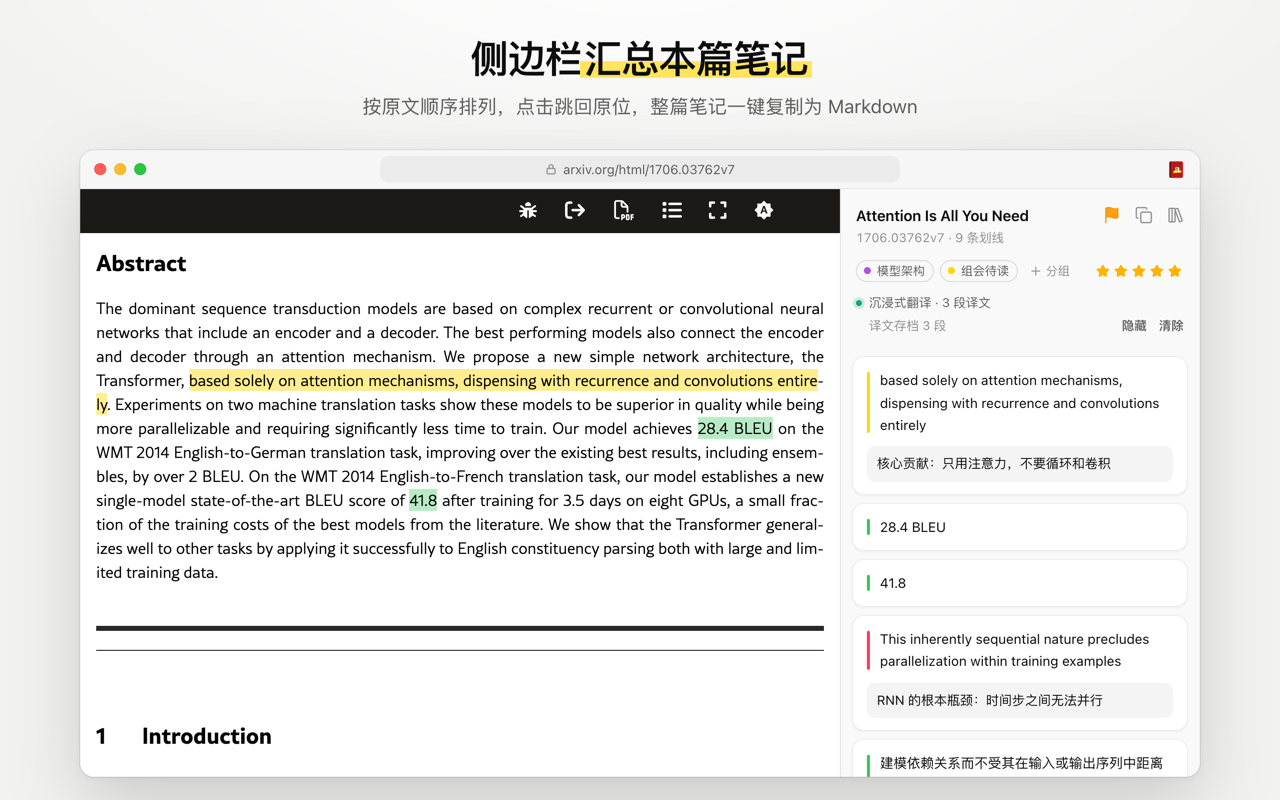
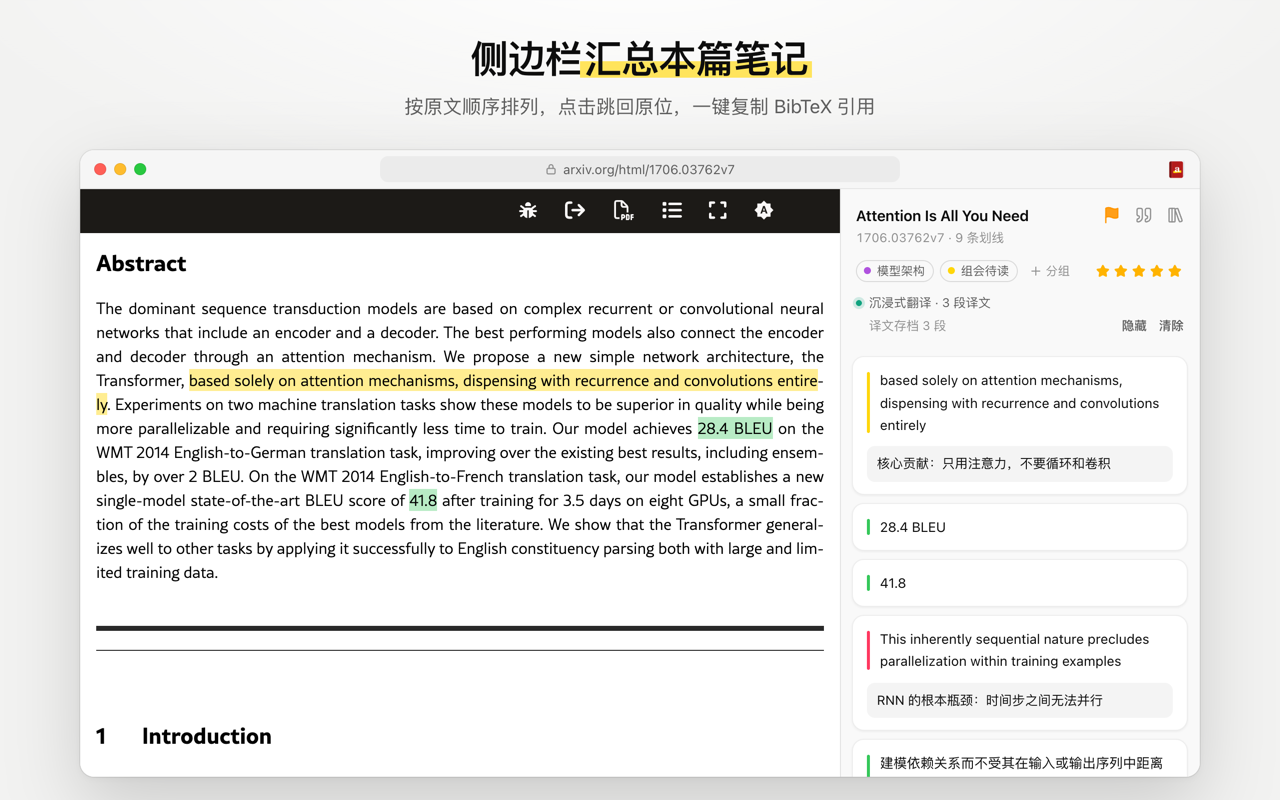
Docs, site and screenshots for the detail pane and citations
- README, usage guide, homepage and store listing describe the detail
  pane, paper notes and "copy BibTeX" in place of "copy as Markdown"
- Privacy policy (site and store listing): the arXiv API is also queried
  when copying a citation, and now returns abstracts, categories and
  DOIs; paper notes are stored locally and synced like other notes
- Sync guide: merge rules for paper notes and arXiv metadata
- Screenshot script opens the detail pane on a paper with a DOI and a
  journal_ref; the library shots use a wider window so the pane fits.
  Store screenshots and homepage images are regenerated

Changed region(s): [[0.2812, 0.125, 0.7188, 0.1562], [0.875, 0.25, 0.9062, 0.2812]]

diff --git a/scripts/screenshots/fixtures.ts b/scripts/screenshots/fixtures.ts
@@ -1,16 +1,18 @@
 import { GROUPS_KEY, SHELF_PREFIX, type Group, type GroupColor, type Shelf } from '../../src/core/groups';
-import { META_PREFIX, PAPER_PREFIX } from '../../src/core/library';
+import { META_PREFIX, NOTE_PREFIX, PAPER_PREFIX, type PaperNote } from '../../src/core/library';
 import type { PaperMeta } from '../../src/core/paper';
 import { COLORS, type Annotation } from '../../src/core/types';
 import { SYNC_CONFIG_KEY, SYNC_STATUS_KEY, type SyncConfig, type SyncStatus } from '../../src/sync/config';
 
 /**
- * 截图用的示例数据：分组、论文库里的其他论文、云同步设置。
+ * 截图用的示例数据：分组、论文库里的其他论文、详情面板里那篇论文的 arXiv 信息和论文笔记、云同步设置。
  * 截图里那篇论文的划线和笔记是在论文页上现场做的，见 capture.ts。
  * 时间都相对于截图时刻，论文库里显示的"3小时前"等每次都一样
  */
 
 export const PAPER_ID = '1706.03762';
+/** 论文库截图里打开详情面板的论文：arXiv 上 DOI、发表信息都有 */
+export const DETAIL_PAPER_ID = '2501.12948';
 
 const MINUTE = 60_000;
 const HOUR = 60 * MINUTE;
@@ -44,7 +46,7 @@ interface PaperDef {
 /** 论文库里的论文。第一篇是截图里打开的论文，它的划线来自论文页 */
 const PAPERS: PaperDef[] = [
   { id: PAPER_ID, version: 'v7', title: 'Attention Is All You Need', authors: ['Ashish Vaswani', 'Noam Shazeer', 'Niki Parmar'], authorCount: 8, year: 2017, groups: ['g1', 'g5'], flagged: true, rating: 5, highlights: 0, notes: 0, ago: MINUTE },
-  { id: '2501.12948', version: 'v2', title: 'DeepSeek-R1: Incentivizing Reasoning Capability in LLMs via Reinforcement Learning', authors: ['DeepSeek-AI', 'Daya Guo', 'Dejian Yang'], authorCount: 200, year: 2025, groups: ['g2', 'g3'], flagged: true, rating: 4, highlights: 14, notes: 5, ago: 3 * HOUR },
+  { id: DETAIL_PAPER_ID, version: 'v2', title: 'DeepSeek-R1: Incentivizing Reasoning Capability in LLMs via Reinforcement Learning', authors: ['DeepSeek-AI', 'Daya Guo', 'Dejian Yang', 'Haowei Zhang', 'Junxiao Song', 'Peiyi Wang', 'Qihao Zhu', 'Runxin Xu', 'Ruoyu Zhang', 'Shirong Ma', 'Xiao Bi'], authorCount: 200, year: 2025, groups: ['g2', 'g3'], flagged: true, rating: 4, highlights: 14, notes: 5, ago: 3 * HOUR },
   { id: '2402.03300', version: 'v3', title: 'DeepSeekMath: Pushing the Limits of Mathematical Reasoning in Open Language Models', authors: ['Zhihong Shao', 'Peiyi Wang', 'Qihao Zhu'], authorCount: 11, year: 2024, groups: ['g2'], rating: 4, highlights: 9, notes: 3, ago: 1.1 * DAY },
   { id: '2405.04434', version: 'v5', title: 'DeepSeek-V2: A Strong, Economical, and Efficient Mixture-of-Experts Language Model', authors: ['DeepSeek-AI', 'Aixin Liu', 'Bei Feng'], authorCount: 157, year: 2024, groups: ['g1', 'g4'], highlights: 11, notes: 2, ago: 2.2 * DAY },
   { id: '2401.04088', version: 'v1', title: 'Mixtral of Experts', authors: ['Albert Q. Jiang', 'Alexandre Sablayrolles', 'Antoine Roux'], authorCount: 26, year: 2024, groups: ['g4'], highlights: 6, notes: 1, ago: 3.1 * DAY },
@@ -54,6 +56,20 @@ const PAPERS: PaperDef[] = [
   { id: '2201.11903', version: 'v6', title: 'Chain-of-Thought Prompting Elicits Reasoning in Large Language Models', authors: ['Jason Wei', 'Xuezhi Wang', 'Dale Schuurmans'], authorCount: 9, year: 2022, groups: ['g2'], rating: 4, highlights: 4, notes: 1, ago: 21 * DAY },
   { id: '2106.09685', version: 'v2', title: 'LoRA: Low-Rank Adaptation of Large Language Models', authors: ['Edward J. Hu', 'Yelong Shen', 'Phillip Wallis'], authorCount: 8, year: 2021, groups: [], highlights: 0, notes: 0, ago: 5 * DAY },
 ];
+
+/** 详情面板里的 arXiv 信息，取自 arXiv API（2026-10-26） */
+const DETAIL_META: Partial<PaperMeta> = {
+  published: '2025-01-22T15:19:35Z',
+  updated: '2026-01-04T08:20:18Z',
+  latestVersion: 'v2',
+  category: 'cs.CL',
+  doi: '10.1038/s41586-025-09422-z',
+  journalRef: 'Nature volume 645, pages 633-638 (2025)',
+  abstract:
+    "General reasoning represents a long-standing and formidable challenge in artificial intelligence. Recent breakthroughs, exemplified by large language models (LLMs) and chain-of-thought prompting, have achieved considerable success on foundational reasoning tasks. However, this success is heavily contingent upon extensive human-annotated demonstrations, and models' capabilities are still insufficient for more complex problems. Here we show that the reasoning abilities of LLMs can be incentivized through pure reinforcement learning (RL), obviating the need for human-labeled reasoning trajectories. The proposed RL framework facilitates the emergent development of advanced reasoning patterns, such as self-reflection, verification, and dynamic strategy adaptation. Consequently, the trained model achieves superior performance on verifiable tasks such as mathematics, coding competitions, and STEM fields, surpassing its counterparts trained via conventional supervised learning on human demonstrations. Moreover, the emergent reasoning patterns exhibited by these large-scale models can be systematically harnessed to guide and enhance the reasoning capabilities of smaller models.",
+};
+
+const DETAIL_NOTE = 'R1-Zero 不做 SFT，直接用 GRPO + 规则奖励训练，反思、验证等推理行为自己涌现出来。\nR1 先用少量长 CoT 数据冷启动，解决可读性差、中英混杂的问题。\n待看：蒸馏到 Qwen / Llama 小模型的实验设置。';
 
 /** 导入的 PDF（没有 arXiv HTML 版本的论文） */
 const IMPORTED_ID = 'pdf-0123456789abcdef0123';
@@ -96,7 +112,12 @@ export function libraryStorage(now: number): Record<string, unknown> {
   const out: Record<string, unknown> = { [GROUPS_KEY]: groups(now) };
   for (const p of PAPERS) {
     const at = now - p.ago;
-    const meta: PaperMeta = { id: p.id, version: p.version, title: p.title, authors: authorList(p), lastOpenedAt: at, published: `${p.year}-06-12T00:00:00Z`, source: 'api' };
+    // 带上获取时间和最新版本，论文库页不会再去请求 arXiv API
+    const meta: PaperMeta = {
+      id: p.id, version: p.version, title: p.title, authors: authorList(p), lastOpenedAt: at,
+      published: `${p.year}-06-12T00:00:00Z`, source: 'api', apiAt: now - DAY, latestVersion: p.version,
+      ...(p.id === DETAIL_PAPER_ID ? DETAIL_META : {}),
+    };
     out[META_PREFIX + p.id] = meta;
     out[SHELF_PREFIX + p.id] = shelf(p, now);
     if (p.highlights) out[PAPER_PREFIX + p.id] = Array.from({ length: p.highlights }, (_, i) => annotation(p.id, p.version, i, at, i < p.notes));
@@ -113,6 +134,7 @@ export function libraryStorage(now: number): Record<string, unknown> {
     doc: { sha256: '0'.repeat(64), size: 1, importedAt, fileName: 'kaplan2020_scaling_laws.pdf' },
   };
   out[META_PREFIX + IMPORTED_ID] = imported;
+  out[NOTE_PREFIX + DETAIL_PAPER_ID] = { text: DETAIL_NOTE, updatedAt: now - 2 * HOUR } satisfies PaperNote;
   out[SHELF_PREFIX + IMPORTED_ID] = { groups: [], flagged: false, rating: 0, addedAt: importedAt, updatedAt: 0 } satisfies Shelf;
   out[PAPER_PREFIX + IMPORTED_ID] = [0, 1, 2].map((i) => annotation(IMPORTED_ID, '', i, importedAt, false));
 

diff --git a/site/index.html b/site/index.html
@@ -90,15 +90,15 @@
           </div>
           <div class="card">
             <span class="icon"><svg viewBox="0 0 24 24" fill="none" stroke="currentColor" stroke-width="1.75" stroke-linecap="round" stroke-linejoin="round" aria-hidden="true"><rect width="18" height="18" x="3" y="3" rx="2"/><path d="M15 3v18"/></svg></span>
-            <h3><span lang="zh">侧边栏与导出</span><span lang="en">Side panel &amp; export</span></h3>
-            <p lang="zh">侧边栏按文档顺序列出所有笔记，点击跳转到原文位置；整篇笔记可以复制为 Markdown。</p>
-            <p lang="en">The side panel lists every note in document order; click one to jump to it. Copy all notes of a paper as Markdown.</p>
+            <h3><span lang="zh">侧边栏与引用</span><span lang="en">Side panel &amp; citations</span></h3>
+            <p lang="zh">侧边栏按文档顺序列出所有笔记，点击跳转到原文位置；一键复制这篇论文的 BibTeX 引用。</p>
+            <p lang="en">The side panel lists every note in document order; click one to jump to it. Copy the paper's BibTeX citation in one click.</p>
           </div>
           <div class="card">
             <span class="icon"><svg viewBox="0 0 24 24" fill="none" stroke="currentColor" stroke-width="1.75" stroke-linecap="round" stroke-linejoin="round" aria-hidden="true"><rect width="8" height="18" x="3" y="3" rx="1"/><path d="M7 3v18"/><path d="M20.4 18.9c.2.5-.1 1.1-.6 1.3l-1.9.7c-.5.2-1.1-.1-1.3-.6L11.1 5.1c-.2-.5.1-1.1.6-1.3l1.9-.7c.5-.2 1.1.1 1.3.6z"/></svg></span>
             <h3><span lang="zh">论文库与分组</span><span lang="en">Library &amp; groups</span></h3>
-            <p lang="zh">浏览过的论文自动收进论文库，标题和作者从 arXiv 获取。支持分组、标记、评分、排序，以及按标题、作者、笔记内容搜索。</p>
-            <p lang="en">Papers you open go into your library, with titles and authors from arXiv. Group, flag, rate and sort them, and search titles, authors and notes.</p>
+            <p lang="zh">浏览过的论文自动收进论文库，标题和作者从 arXiv 获取。支持分组、标记、评分、排序，以及按标题、作者、笔记内容搜索；点开论文可以看摘要、写整篇论文的笔记。</p>
+            <p lang="en">Papers you open go into your library, with titles and authors from arXiv. Group, flag, rate and sort them, and search titles, authors and notes; open one to read its abstract and write a note on the whole paper.</p>
           </div>
           <div class="card">
             <span class="icon"><svg viewBox="0 0 24 24" fill="none" stroke="currentColor" stroke-width="1.75" stroke-linecap="round" stroke-linejoin="round" aria-hidden="true"><path d="M17.5 19H9a7 7 0 1 1 6.71-9h1.79a4.5 4.5 0 1 1 0 9z"/></svg></span>
@@ -143,11 +143,12 @@
             <h2><span lang="zh">读过的论文，<span class="hl">都在这里</span></span><span lang="en">Every paper you've read, <span class="hl">in one place</span></span></h2>
           </div>
           <div>
-            <p lang="zh">打开过的论文自动收进论文库，标题、作者、年份从 arXiv 获取，不用手动整理。</p>
-            <p lang="en">Papers you open are added automatically, with titles, authors and years fetched from arXiv. No manual filing.</p>
+            <p lang="zh">打开过的论文自动收进论文库，标题、作者、摘要从 arXiv 获取，不用手动整理。点开一篇论文，右侧显示它的详情。</p>
+            <p lang="en">Papers you open are added automatically, with titles, authors and abstracts fetched from arXiv. No manual filing. Click a paper to see its details on the right.</p>
             <ul class="checks">
-              <li><span lang="zh">分组、标记、五星评分，按笔记、评分、划线数排序</span><span lang="en">Groups, flags and star ratings; sort by notes, rating or highlights</span></li>
-              <li><span lang="zh">按标题、作者、划线和笔记内容搜索</span><span lang="en">Search titles, authors, highlights and notes</span></li>
+              <li><span lang="zh">摘要、主分类、DOI、发表信息一目了然</span><span lang="en">Abstract, category, DOI and venue at a glance</span></li>
+              <li><span lang="zh">给整篇论文写笔记，一键复制 BibTeX 引用</span><span lang="en">Notes on the whole paper; copy its BibTeX in one click</span></li>
+              <li><span lang="zh">分组、标记、五星评分，按标题、作者、划线和笔记搜索</span><span lang="en">Groups, flags and stars; search titles, authors, highlights and notes</span></li>
               <li><span lang="zh">WebDAV、Google Drive 同步，或导出备份</span><span lang="en">Sync via WebDAV or Google Drive, or export a backup</span></li>
             </ul>
           </div>
@@ -159,7 +160,7 @@
           </div>
           <picture>
             <source srcset="img/library-dark.webp" media="(prefers-color-scheme: dark)">
-            <img src="img/library-light.webp" width="1120" height="700" loading="lazy" alt="论文库：左侧是分组，右侧是论文列表，带分组标签、标记和评分 / The library: groups on the left, papers with group labels, flags and ratings on the right">
+            <img src="img/library-light.webp" width="1240" height="880" loading="lazy" alt="论文库：左侧是分组，中间是带分组标签、标记和评分的论文列表，右侧是选中论文的详情，有摘要、DOI、发表信息和论文笔记 / The library: groups on the left, papers with labels, flags and ratings in the middle, and the selected paper's details on the right, with its abstract, DOI, venue and a note on the whole paper">
           </picture>
         </figure>
       </div>
@@ -187,8 +188,8 @@
           <div class="card">
             <span class="icon"><svg viewBox="0 0 24 24" fill="none" stroke="currentColor" stroke-width="1.75" stroke-linecap="round" stroke-linejoin="round" aria-hidden="true"><path d="M2.062 12.348a1 1 0 0 1 0-.696 10.75 10.75 0 0 1 19.876 0 1 1 0 0 1 0 .696 10.75 10.75 0 0 1-19.876 0"/><circle cx="12" cy="12" r="3"/></svg></span>
             <h3><span lang="zh">用到第三方时会说明</span><span lang="en">Third parties, disclosed</span></h3>
-            <p lang="zh">论文库向 arXiv API 查询标题和作者；导入 PDF 时文件会上传到 MinerU 解析。</p>
-            <p lang="en">The library asks the arXiv API for titles and authors; imported PDFs are uploaded to MinerU for parsing.</p>
+            <p lang="zh">论文库向 arXiv API 查询标题、作者、摘要等论文信息；导入 PDF 时文件会上传到 MinerU 解析。</p>
+            <p lang="en">The library asks the arXiv API for titles, authors and abstracts; imported PDFs are uploaded to MinerU for parsing.</p>
           </div>
         </div>
         <p class="more"><a href="privacy.html"><span lang="zh">阅读完整的隐私政策</span><span lang="en">Read the full privacy policy</span> →</a></p>

diff --git a/site/privacy.html b/site/privacy.html
@@ -32,7 +32,7 @@
     <p>以下数据保存在你的浏览器本地（<code>chrome.storage.local</code> 和扩展的 IndexedDB），开发者无法访问：</p>
     <ul>
       <li>你的划线、高亮颜色、笔记内容，以及划线所在位置的引文</li>
-      <li>论文库：浏览过的论文 id、标题、作者、年份、打开和加笔记的时间、分组和标记</li>
+      <li>论文库：浏览过的论文 id、标题、作者、年份、摘要等论文信息，打开和加笔记的时间、分组、标记和评分，以及你写的论文笔记</li>
       <li>译文存档：沉浸式翻译、陪读蛙等翻译插件在论文页上显示过的译文段落</li>
       <li>导入 PDF 生成的论文页面，以及导入过程中暂存的 PDF（导入完成后删除）</li>
       <li>设置：云同步的服务器地址、用户名和密码（WebDAV），MinerU Token。这些凭据只保存在本机，不会同步，也不会写进备份文件</li>
@@ -43,7 +43,7 @@
     <div class="table-scroll">
     <table>
       <tr><th>服务</th><th>什么时候</th><th>发送什么</th></tr>
-      <tr><td>arXiv API<br><code>export.arxiv.org</code></td><td>打开论文库时</td><td>论文的 arXiv id，用于获取标题、作者、年份。不包含笔记</td></tr>
+      <tr><td>arXiv API<br><code>export.arxiv.org</code></td><td>打开论文库、复制引用时</td><td>论文的 arXiv id，用于获取标题、作者、年份、摘要、分类、DOI 等论文信息。不包含笔记</td></tr>
       <tr><td>你填写的 WebDAV 服务器</td><td>开启 WebDAV 云同步后</td><td>笔记、论文库、分组、标记、译文存档和导入 PDF 生成的论文页面，用于多台电脑间同步；以及你填写的用户名和密码（用于登录该服务器）</td></tr>
       <tr><td>Google Drive</td><td>开启 Google Drive 云同步后</td><td>同上的同步数据，写入你 Google Drive 中的应用专用文件夹（appDataFolder）。扩展只申请 <code>drive.appdata</code> 权限，无法读取你云端硬盘里的其他文件</td></tr>
       <tr><td>MinerU<br><code>mineru.net</code> 及其文件存储</td><td>你使用"导入 PDF"时</td><td>你选择的 PDF 文件和你的 MinerU Token，用于解析成网页。PDF 会上传到 MinerU 的服务器，适用 MinerU 的隐私政策；未公开的稿件请谨慎导入</td></tr>
@@ -80,11 +80,11 @@
       <p class="callout">arXiv HTML Helper ("the extension") has no server of its own. It does not collect, track, or sell any user data, and contains no ads or analytics. Your data stays in your browser and is sent to the services below only when you use the corresponding feature.</p>
 
       <h2>Data stored locally</h2>
-      <p>The following is stored in your browser (<code>chrome.storage.local</code> and the extension's IndexedDB) and is never accessible to the developer: your highlights, notes and the quoted text they anchor to; your paper library (arXiv ids, titles, authors, timestamps, groups, stars); translations displayed by translation extensions on paper pages; pages generated by "Import PDF"; and settings, including WebDAV credentials and your MinerU token, which never leave your device and are excluded from sync and backups. Uninstalling the extension deletes all of it; backup files you exported, and paper pages that earlier versions of "Import PDF" saved to <code>Downloads/arxiv-html-helper/</code>, are ordinary files you can delete yourself.</p>
+      <p>The following is stored in your browser (<code>chrome.storage.local</code> and the extension's IndexedDB) and is never accessible to the developer: your highlights, notes and the quoted text they anchor to; your paper library (arXiv ids, titles, authors, abstracts and other paper details, timestamps, groups, stars, and your notes on whole papers); translations displayed by translation extensions on paper pages; pages generated by "Import PDF"; and settings, including WebDAV credentials and your MinerU token, which never leave your device and are excluded from sync and backups. Uninstalling the extension deletes all of it; backup files you exported, and paper pages that earlier versions of "Import PDF" saved to <code>Downloads/arxiv-html-helper/</code>, are ordinary files you can delete yourself.</p>
 
       <h2>Data sent to third parties</h2>
       <ul>
-        <li><strong>arXiv API</strong> (<code>export.arxiv.org</code>): arXiv ids of papers in your library, to fetch titles, authors and years. No notes are sent.</li>
+        <li><strong>arXiv API</strong> (<code>export.arxiv.org</code>): arXiv ids of papers in your library (when you open the library or copy a citation), to fetch titles, authors, years, abstracts, categories and DOIs. No notes are sent.</li>
         <li><strong>Your WebDAV server</strong>, if you enable WebDAV sync: your notes, library, groups, saved translations and pages generated by "Import PDF", plus the username and password you entered to log in.</li>
         <li><strong>Google Drive</strong>, if you enable Google Drive sync: the same sync data, written to the hidden app-data folder. Only the <code>drive.appdata</code> scope is requested; other files in your Drive cannot be read.</li>
         <li><strong>MinerU</strong> (<code>mineru.net</code>), when you use "Import PDF": the PDF you choose and your MinerU token, to convert the PDF into a web page. The PDF is uploaded to MinerU's servers and is subject to MinerU's privacy policy.</li>

diff --git a/scripts/screenshots/capture.ts b/scripts/screenshots/capture.ts
@@ -4,14 +4,15 @@ import { PAPER_PREFIX } from '../../src/core/library';
 import type { PageState } from '../../src/core/messages';
 import type { HighlightColor } from '../../src/core/types';
 import { sleep, type Browser, type Page } from './cdp';
-import { libraryStorage, PAPER_ID, pageStorage, syncStatus } from './fixtures';
+import { DETAIL_PAPER_ID, libraryStorage, PAPER_ID, pageStorage, syncStatus } from './fixtures';
 
 /**
  * 截图：联网打开 arxiv.org 上的论文页，在隔离环境里运行扩展的内容脚本（和真实安装时一样），
  * 现场划线、写笔记、插入模拟的沉浸式翻译译文；再用这篇论文的数据打开侧边栏、论文库页面。
  *
  * 截图一律按 2 倍像素存到 rawDir/<名称>-<light|dark>.png，合成时按一半尺寸显示：
- * - store-*：商店截图用，只截浅色。尺寸都是商店截图里浏览器窗口内容区的 1120×588（论文页 + 侧边栏是 760 + 360）
+ * - store-*：商店截图用，只截浅色。尺寸都是商店截图里浏览器窗口内容区的 1120×588（论文页 + 侧边栏是 760 + 360）。
+ *   论文库要宽一些才能和详情面板并排、云同步弹窗比窗口高，这两张按更大的窗口截，再整体缩小到同样的像素尺寸
  * - site-*：主页配图用，浅色、深色各截一张
  */
 
@@ -157,11 +158,21 @@ export async function capture(env: CaptureEnv, theme: Theme): Promise<void> {
     await library.goto(`${env.origin}/library.html`);
     await library.waitFor(`!!document.querySelector('.paper')`);
   };
+  /** 点开一篇论文：详情面板和列表并排（窗口宽于 1180 时） */
+  const openDetail = async () => {
+    await library.evaluate(`document.querySelector('.paper[data-id=${js(DETAIL_PAPER_ID)}] .meta').click()`);
+    await library.waitFor(`!document.getElementById('detail').hidden && !!document.querySelector('.abstract')`);
+    await sleep(400); // 面板的出现动画
+  };
   if (store) {
-    await openLibrary(1120, 588);
+    // 4：按 1200×630 的窗口截，像素尺寸和其他截图相同，相当于整体缩小到 1120/1200
+    await openLibrary(1200, 630, (2 * 1120) / 1200);
+    await openDetail();
     await shot(library, 'store-4');
   }
-  await openLibrary(1120, 700);
+  // 高一些，详情面板里能看到摘要的开头
+  await openLibrary(1240, 880);
+  await openDetail();
   await shot(library, 'site-library');
   if (store) {
     // 5：云同步设置。弹窗比窗口高，按 1.15 倍的窗口截，像素尺寸和其他截图相同，相当于整体缩小到 1/1.15

diff --git a/store/screenshots.html b/store/screenshots.html
@@ -86,7 +86,7 @@
       },
       '2-sidepanel': {
         title: '侧边栏<span class="hl">汇总本篇笔记</span>',
-        sub: '按原文顺序排列，点击跳回原位，整篇笔记一键复制为 Markdown',
+        sub: '按原文顺序排列，点击跳回原位，一键复制 BibTeX 引用',
         url: ARXIV,
         images: ['store-2-page', 'store-2-panel'],
       },
@@ -97,8 +97,8 @@
         images: ['store-3'],
       },
       '4-library': {
-        title: '论文库：<span class="hl">分组、评分、搜索</span>',
-        sub: '浏览过的论文自动收录，标题和作者从 arXiv 获取，可按划线和笔记内容搜索',
+        title: '论文库：<span class="hl">点开论文看详情</span>',
+        sub: '分类、DOI、发表信息、摘要和论文笔记都在右侧，一键复制 BibTeX；还能分组、评分、全文搜索',
         url: LIBRARY,
         images: ['store-4'],
       },

diff --git a/docs/usage.md b/docs/usage.md
@@ -12,23 +12,28 @@
 
 - 点浏览器工具栏里的扩展图标打开侧边栏。侧边栏只在当前标签页打开，切到其他标签页时不显示
 - 按原文顺序列出本篇的所有笔记，点击一条跳到原文位置。鼠标移到笔记上可以编辑、删除；原文位置找不到的笔记会标出来，仍然显示引文
-- 右上角可以标记这篇论文、把整篇笔记复制为 Markdown、打开论文库
+- 右上角可以标记这篇论文、复制这篇论文的 BibTeX 引用、打开论文库
 - 标题下方是论文所在的分组（可以加入 / 移出）和评分，以及检测到的译文段落数（用来判断对翻译插件的适配是否生效）
 - 有译文存档时，可以隐藏存档（只影响本机），或清除本篇的存档（清除后会重新存档当前显示的译文）
 
 ## 论文库
 
-侧边栏右上角的"论文库"会打开一个新标签页，列出所有浏览过的论文，标题、作者、年份从 arXiv API 自动获取。
+侧边栏右上角的"论文库"会打开一个新标签页，列出所有浏览过的论文，标题、作者、年份、摘要等从 arXiv API 自动获取。
 
-- 可以按最近笔记、最近打开、最近加入、评分、划线数、标题排序；搜索框可以搜标题、作者、arXiv 编号、划线和笔记内容，快捷键是 `/`
-- 鼠标移到论文上，可以标记、把笔记复制为 Markdown、从论文库移除
-- **分组**：一篇论文可以属于多个分组（相当于标签）。浏览过的论文自动加入论文库，默认不属于任何分组。左侧栏按 全部 / 已标记 / 未分组 / 各分组 筛选；分组可以新建、重命名、改颜色、删除，或把整个分组的笔记复制为 Markdown
+- 可以按最近笔记、最近打开、最近加入、评分、划线数、标题排序；搜索框可以搜标题、作者、arXiv 编号、划线、笔记和论文笔记的内容，快捷键是 `/`
+- 鼠标移到论文上，可以标记、复制 BibTeX 引用、从论文库移除
+- **详情面板**：点一篇论文，右侧打开它的详情：摘要、主分类、发布和更新日期（含最新版本号）、DOI、发表信息（journal_ref）、作者备注，以及分组、评分和划线数。导入的 PDF 显示文件名和导入日期，摘要从生成的论文页面里提取（MinerU 识别出摘要时才有）。窗口较窄时面板浮在列表上方
+  - 面板里的"论文笔记"是针对整篇论文的笔记（读后总结、想法、待办），不依附于某段划线，边写边自动保存，会随备份和云同步一起保存
+  - 双击论文、或面板左上角的"打开论文"打开论文页；⌘ / Ctrl + 点击标题在新标签页打开
+  - 面板打开时，↑ / ↓ 切换论文，Enter 打开论文，Esc 关闭面板
+- **复制引用**：复制的是 BibTeX，格式和 arXiv 摘要页的"Export BibTeX Citation"一致（`@misc`，带 `eprint`、`primaryClass`，有 DOI 时带上 DOI），年份取首个版本的发布年份。导入的 PDF 没有可靠的出版信息，不提供引用
+- **分组**：一篇论文可以属于多个分组（相当于标签）。浏览过的论文自动加入论文库，默认不属于任何分组。左侧栏按 全部 / 已标记 / 未分组 / 各分组 筛选；分组可以新建、重命名、改颜色、删除
 - **评分**：每篇论文可以评 1–5 星。在论文库每行右侧（未评分时鼠标移上去才出现）或侧边栏的分组行右侧点星，再点当前星级可以清除
 
 ## 同步与备份
 
 - **云同步**：论文库右上角的"云同步"可以通过 WebDAV（坚果云等）或 Google Drive 在多台电脑之间自动同步笔记、论文库、分组、译文存档和导入论文的页面，删除也会同步。设置方法和合并规则见[云同步](sync.md)
-- **备份**：论文库右上角的"⋯"菜单里可以导出、导入备份。导出为一个 JSON 文件，包含全部论文、划线、笔记、分组、标记和评分（含译文上的笔记）；导入时先预览，笔记按 id 合并、保留修改时间较新的一份，论文的分组取两边的并集，只增不删。可以用来换电脑迁移，或者定期备份
+- **备份**：论文库右上角的"⋯"菜单里可以导出、导入备份。导出为一个 JSON 文件，包含全部论文、划线、笔记、论文笔记、分组、标记和评分（含译文上的笔记）；导入时先预览，笔记按 id 合并、保留修改时间较新的一份，论文的分组取两边的并集，只增不删。可以用来换电脑迁移，或者定期备份
 
 ## 导入 PDF
 

diff --git a/docs/store-listing.md b/docs/store-listing.md
@@ -32,10 +32,11 @@
 
 ■ 侧边栏
 · 点击工具栏里的扩展图标打开侧边栏，按文档顺序列出本篇的所有笔记，点击跳转到原文位置
-· 整篇笔记可以复制为 Markdown
+· 一键复制这篇论文的 BibTeX 引用
 
 ■ 论文库
 · 浏览过的论文自动收进论文库，标题、作者、年份从 arXiv 获取
+· 点开论文查看摘要、主分类、DOI、发表信息，写整篇论文的笔记
 · 分组（类似标签）、标记、多种排序；可按标题、作者、论文 id、划线和笔记内容搜索
 · 导出 / 导入备份文件，用于换电脑或定期备份
 
@@ -60,8 +61,8 @@ Highlight and take notes on arXiv HTML papers — on the original text and on tr
 · Highlight in five colors and attach notes; click a highlight to recolor, edit or delete it
 · Highlights never modify the page, so they survive when translation extensions re-render it
 · Saved translations: translated paragraphs are kept, so notes on them never drift
-· Side panel with all notes of the paper in document order; copy them as Markdown
-· Paper library with groups, stars, sorting and full-text search; backup export / import
+· Side panel with all notes of the paper in document order; copy the paper's BibTeX citation
+· Paper library with groups, stars, sorting and full-text search; a detail pane with the abstract, category, DOI and a note on the whole paper; backup export / import
 · Sync across computers via WebDAV
 · Import PDFs (parsed by MinerU) as arXiv-style pages you can annotate
 
@@ -93,7 +94,7 @@ Open source (MIT): https://github.com/Clamours/arxiv-html-helper
 1. 论文页上有几处不同颜色的高亮，选中文字弹出工具栏
 2. 论文页和侧边栏，侧边栏按原文顺序列出本篇笔记
 3. 沉浸式翻译的双语译文，在译文上划线、打开笔记编辑框
-4. 论文库：分组、评分、搜索
+4. 论文库：左边是带分组和评分的论文列表，右边是一篇论文的详情面板（分类、DOI、发表信息、论文笔记）
 5. 云同步设置
 
 ## 隐私权规范（Privacy practices）
@@ -123,7 +124,7 @@ Users accumulate notes on many papers over time, and the extension stores saved 
 **sidePanel**
 
 ```text
-The main UI: clicking the toolbar icon opens a side panel listing all highlights and notes of the current paper in document order, with jump-to-location, Markdown export and the paper's groups.
+The main UI: clicking the toolbar icon opens a side panel listing all highlights and notes of the current paper in document order, with jump-to-location, BibTeX citation copy and the paper's groups.
 ```
 
 **alarms**
@@ -147,7 +148,7 @@ Used only for optional Google Drive sync: chrome.identity.getAuthToken obtains a
 **主机权限（Host permission）**
 
 ```text
-- https://export.arxiv.org/*: the paper library fetches titles, authors and years of papers the user has opened from the official arXiv API (only arXiv ids are sent).
+- https://export.arxiv.org/*: the paper library (and the side panel, when the user copies a citation) fetches titles, authors, years, abstracts, categories and DOIs of papers the user has opened from the official arXiv API (only arXiv ids are sent).
 - Content scripts on arxiv.org/html/*, ar5iv.org/html/* and ar5iv.labs.arxiv.org/html/*: render highlights and the note toolbar on arXiv HTML paper pages, which is the extension's single purpose.
 - Content script on file:///*: earlier versions opened papers imported from PDF as local HTML files, and those files keep working. The script only activates on pages that contain the extension's <meta name="ahh-paper-id"> marker and does nothing on any other local file. This also requires the user to turn on "Allow access to file URLs" themselves.
 - Optional https://*/* and http://*/*: NOT granted at install. They are requested at runtime via chrome.permissions.request, limited to the specific origins needed, only when the user turns on a feature that needs it: the WebDAV server URL the user typed in (any host, possibly self-hosted or on a LAN over http), the Google Drive API, or the MinerU API, upload and result CDN hosts and the extension's own reader page on clamours.github.io for "Import PDF". The exact hosts cannot be known in advance, which is why they are declared as optional wildcards.

diff --git a/docs/development.md b/docs/development.md
@@ -63,9 +63,9 @@ src/
                    → anchor.ts（选区 ↔ 片段，模糊匹配）
     数据           types.ts（笔记、片段、颜色）、paper.ts（论文 id、元数据、阅读页网址）、
                    messages.ts（各页面、background、内容脚本之间的消息）
-    存储           storage.ts：paper:<id> 存笔记，meta:<id> 存标题、作者等，shelf:<id> 存所属分组、标记和评分，
-                   groups 存全部分组的定义，tomb:<id> 和 groups-deleted 存删除记录（云同步用）
-    论文库         library.ts（汇总、过滤、排序、搜索、Markdown 导出）、groups.ts（分组、标记、评分）
+    存储           storage.ts：paper:<id> 存笔记，meta:<id> 存标题、作者、摘要等，shelf:<id> 存所属分组、标记和评分，
+                   note:<id> 存论文笔记，groups 存全部分组的定义，tomb:<id> 和 groups-deleted 存删除记录（云同步用）
+    论文库         library.ts（汇总、过滤、排序、搜索、论文笔记）、groups.ts（分组、标记、评分）、citation.ts（BibTeX）
     合并规则       sync.ts（云同步）、backup.ts（备份）、tombstones.ts（删除记录）、
                    translations.ts（译文存档，含 HTML 清洗）、docs.ts（导入论文的页面）
   content/       内容脚本：app.ts 把各部分串起来；highlighter.ts 渲染高亮，ui.ts 是划词工具栏和笔记编辑框，
@@ -75,8 +75,8 @@ src/
   import/        导入 PDF：MinerU 解析 → arXiv（LaTeXML）风格的 HTML。各文件的分工见 import.md
   imported/      导入论文的本机存储（IndexedDB，也暂存导入中的 PDF），以及在阅读页里打开论文
   sync/          云同步：设置、WebDAV / Google Drive、同步流程、background 里的调度
-  shared/        侧边栏、论文库和内容脚本共用的界面：主题、图标、色块、弹出层、分组菜单、评分
-  entrypoints/   WXT 入口：content、background、sidepanel、library（论文库页，含同步、备份、导入 PDF 的界面）
+  shared/        侧边栏、论文库和内容脚本共用的界面：主题、图标、色块、弹出层、分组菜单、评分、复制引用
+  entrypoints/   WXT 入口：content、background、sidepanel、library（论文库页，含详情面板和同步、备份、导入 PDF 的界面）
 tests/                     单元测试（Vitest + jsdom），fixtures/ 是测试用的页面和 API 响应
 scripts/capture-dom.js     在真实页面上抓取翻译插件的 DOM，用于核对选择器
 scripts/mineru-to-html.ts  把 MinerU 导出的 Markdown 转成 HTML 文件（npm run mineru）

diff --git a/docs/sync.md b/docs/sync.md
@@ -9,7 +9,7 @@
 
 ## 何时同步
 
-- 本机有改动（划线、笔记、分组、标记、评分、删除）后几秒自动上传
+- 本机有改动（划线、笔记、论文笔记、分组、标记、评分、删除）后几秒自动上传
 - 按设置的间隔（默认 5 分钟）检查其他电脑的改动
 - 浏览器启动、打开论文库、打开论文页时检查一次（半分钟内同步过则跳过）
 - 同步设置里点"保存并同步"
@@ -24,7 +24,8 @@
 
 导入 PDF 生成的论文页面同样每篇一个文件 `arxiv-notes-page-<论文 id>.json`，另有索引 `arxiv-notes-pages.json`：本机没有的下载，云端没有的上传，从论文库移除的论文，云端和其他电脑上的页面也删除。两台电脑各自导入过同一个 PDF 时以先导入的为准，见 [import.md](import.md#云同步)。
 
-- 同一条笔记、同一个分组、同一篇论文的分组、标记和评分：保留修改时间较新的一份
+- 同一条笔记、同一个分组、同一篇论文的分组、标记和评分、同一篇论文的论文笔记：保留修改时间较新的一份。论文笔记清空也算一次修改
+- 论文的标题、作者、摘要等 arXiv 信息：保留后获取的一份
 - 删除也会同步：删除笔记、从论文库移除论文、删除分组时会记下删除时间（`tomb:<paperId>`、`groups-deleted`）。删除之后另一台电脑又改过的内容会保留
 - 两台电脑各自新建的同名分组合并为一个
 - 删除记录保留半年。一台电脑超过半年没同步过，它上面已经在别处删掉的内容可能会被同步回来
